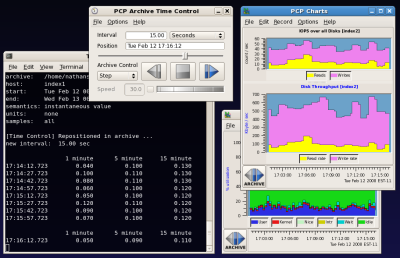
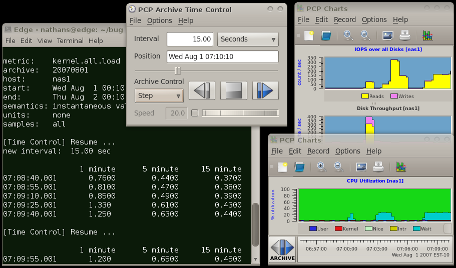
Update final pmtime images to current look.

diff --git a/man/html/timecontrol.html b/man/html/timecontrol.html
@@ -14,7 +14,7 @@
 	</TR>
 </TABLE>
 <H1 ALIGN=CENTER STYLE="margin-top: 0.48cm; margin-bottom: 0.32cm"><FONT SIZE=7>Time Control</FONT></H1>
-<P>The graphical time control utility, pmtime, is used to coordinate all aspects of time synchonisation in pmchart.  Most importantly, this means the current sample time is set by pmtime, but also includes things like the update delta, update speed, and the timezone.  It presents a VCR model which can be used to stop time, play forwards, rewind, and fast forward through time.
+<P>The graphical time control utility, <I>pmtime</I>, is used to coordinate all aspects of time synchonisation in <I>pmchart</I>.&nbsp;&nbsp;Most importantly, this means the current sample time is set by <I>pmtime</I>, but also includes things like the update delta, update speed, and the timezone.&nbsp;&nbsp;It presents a VCR model which can be used to stop time, play forwards, rewind, and fast forward through time.
 </P>
 <P><BR></P>
 
@@ -22,10 +22,10 @@
         <TR><TD WIDTH=100% BGCOLOR="#081c59"><P ALIGN=LEFT><FONT SIZE=5 COLOR="#ffffff"><B>Main Window</B></FONT></P></TD></TR>
 </TABLE>
 <TABLE WIDTH=100% BORDER=0 CELLPADDING=0 CELLSPACING=0 STYLE="page-break-before: always">
-        <TR><TD><P><BR>pmtime operates in either live or archive mode, depending on the data source.  In archive mode, there is additional functionality available, as both forward and backward movement is possible, and it is can speed up or slow down the time updates relative to real time.  Some functionality is common between the two modes, however.  The sample interval (and units) can always be set using the <I>Interval</I>.  The current time position is always displayed in the <I>Position</I> text box (this equates to the rightmost time point in the pmchart window).  And when hosts or archives from different timezones to the monitoring host are used, a drop-down list of available timezones is available from the options menu, which allows you to change the reporting timezone in the monitoring tools (this always defaults to localtime on the monitoring host - <B>not</B> the monitored host).</P>
-	<TD WIDTH=430><P VALIGN=MIDDLE ALIGN=RIGHT><CENTER><BR><IMG ALIGN=RIGHT SRC="images/pmtime_clients.png" BORDER=0></CENTER></P></TD>
+        <TR><TD><P><BR><I>pmtime</I> operates in either live or archive mode, depending on the data source.&nbsp;&nbsp;In archive mode, there is additional functionality available, as both forward and backward movement is possible, and it is can speed up or slow down the time updates relative to real time.&nbsp;&nbsp;Some functionality is common between the two modes, however.&nbsp;&nbsp;The sample interval (and units) can always be set using the <I>Interval</I>.&nbsp;&nbsp;The current time position is always displayed in the <I>Position</I> text box (this equates to the rightmost time point in the <I>pmchart</I> window).&nbsp;&nbsp;And when hosts or archives from different timezones to the monitoring host are used, a drop-down list of available timezones is available from the options menu, which allows you to change the reporting timezone in the monitoring tools (this always defaults to localtime on the monitoring host - <B>not</B> the monitored host).</P>
+	<TD WIDTH=456><P VALIGN=MIDDLE ALIGN=RIGHT><CENTER><BR><IMG ALIGN=RIGHT SRC="images/pmtime_clients.png" BORDER=0></CENTER></P></TD>
 </TABLE>
-<P>pmtime can actually coordinate the flow of time to multiple client programs.  For example, if a second pmchart is started via the <I>Options</I> menu, it will share the time control process with the original pmchart and both will be updated in lock-step.  This is true for both Live and Archive monitoring, and there is even support for controlling time for other PCP clients (like pmval) as well.</P>
+<P><I>pmtime</I> can actually coordinate the flow of time to multiple client programs.&nbsp;&nbsp;For example, if a second <I>pmchart</I> is started via the <I>Options</I> menu, it will share the time control process with the original <I>pmchart</I> and both will be updated in lock-step.&nbsp;&nbsp;This is true for both Live and Archive monitoring, and there is even support for controlling time for other PCP clients (like <I>pmval</I>) as well.</P>
 <BR>
 <TABLE WIDTH=100% BORDER=0 CELLPADDING=0 CELLSPACING=0 BGCOLOR="#e2e2e2">
         <TR><TD WIDTH=100% BGCOLOR="#081c59"><P ALIGN=LEFT><FONT SIZE=5 COLOR="#ffffff"><B>Live Mode</B></FONT></P></TD></TR>
@@ -46,13 +46,13 @@
 	<TD><BR><P>There are several modes of playback available in archive mode:<UL><LI>Normal mode, where time updates are sent to the client at a continuous rate (usually not too different to the original live recording), as determined by the "Speed" wheel setting.
 	<LI>Step mode, where time is only advanced/retreated (by clicking on the Step button) one sample at a time.
 	<LI>Fast mode, where time is moved quickly in either a fast forward or fast rewind direction, and the visible charts are updated as quickly as possible.
-</UL></P><P>The Speed setting can be changed by directly editing the text entry box, or more simply by selecting and rotating the wheel either left or right.  Speed is only relevent in Normal mode.</TD>
+</UL></P><P>The Speed setting can be changed by directly editing the text entry box, or more simply by selecting and rotating the wheel either left or right.&nbsp;&nbsp;Speed is only relevent in Normal mode.</TD>
 	</TR>
 </TABLE>
-<P>In archive mode, the <I>Position</I> text box is editable, and any valid PCP timestamp can be entered here.  Alternatively, and more simply, the archive mode provides a slider beneath the <I>Position</I> text box allowing the time position to be set directly using the pointing device (click, drag, and release at the desired time position).
+<P>In archive mode, the <I>Position</I> text box is editable, and any valid PCP timestamp can be entered here.&nbsp;&nbsp;Alternatively, and more simply, the archive mode provides a slider beneath the <I>Position</I> text box allowing the time position to be set directly using the pointing device (click, drag, and release at the desired time position).
 </P>
 <TABLE WIDTH=100% BORDER=0 CELLPADDING=0 CELLSPACING=0 STYLE="page-break-before: always">
-	<TR><TD><BR><P>One last feature specific to archive mode, is the <I>Time Bounds</I> dialog.  This window, available from the <I>Options</I> menu, displays the start and end position for all archives presented to pmchart (and hence pmtime).  The editable <I>Start</I> and <I>End</I> position text boxes (and associated sliders) allow the time updates to be restricted to a specific time range.  Once archive play/rewind hits these caliper points, replay will stop (independent of whether that is the start or end of the archive).  This allows for a fine-grained level of focus around particular performance events.</TD>
+	<TR><TD><BR><P>One last feature specific to archive mode, is the <I>Time Bounds</I> dialog.&nbsp;&nbsp;This window, available from the <I>Options</I> menu, displays the start and end position for all archives presented to <I>pmchart</I> (and hence <I>pmtime</I>).&nbsp;&nbsp;The editable <I>Start</I> and <I>End</I> position text boxes (and associated sliders) allow the time updates to be restricted to a specific time range.&nbsp;&nbsp;Once archive play/rewind hits these caliper points, replay will stop (independent of whether that is the start or end of the archive).&nbsp;&nbsp;This allows for a fine-grained level of focus around particular performance events.</TD>
 	<TD WIDTH=350><P VALIGN=MIDDLE ALIGN=RIGHT><CENTER><BR><IMG ALIGN=RIGHT SRC="images/pmtime_bounds.png" BORDER=0></CENTER></P></TD>
 	</TR>
 </TABLE>
